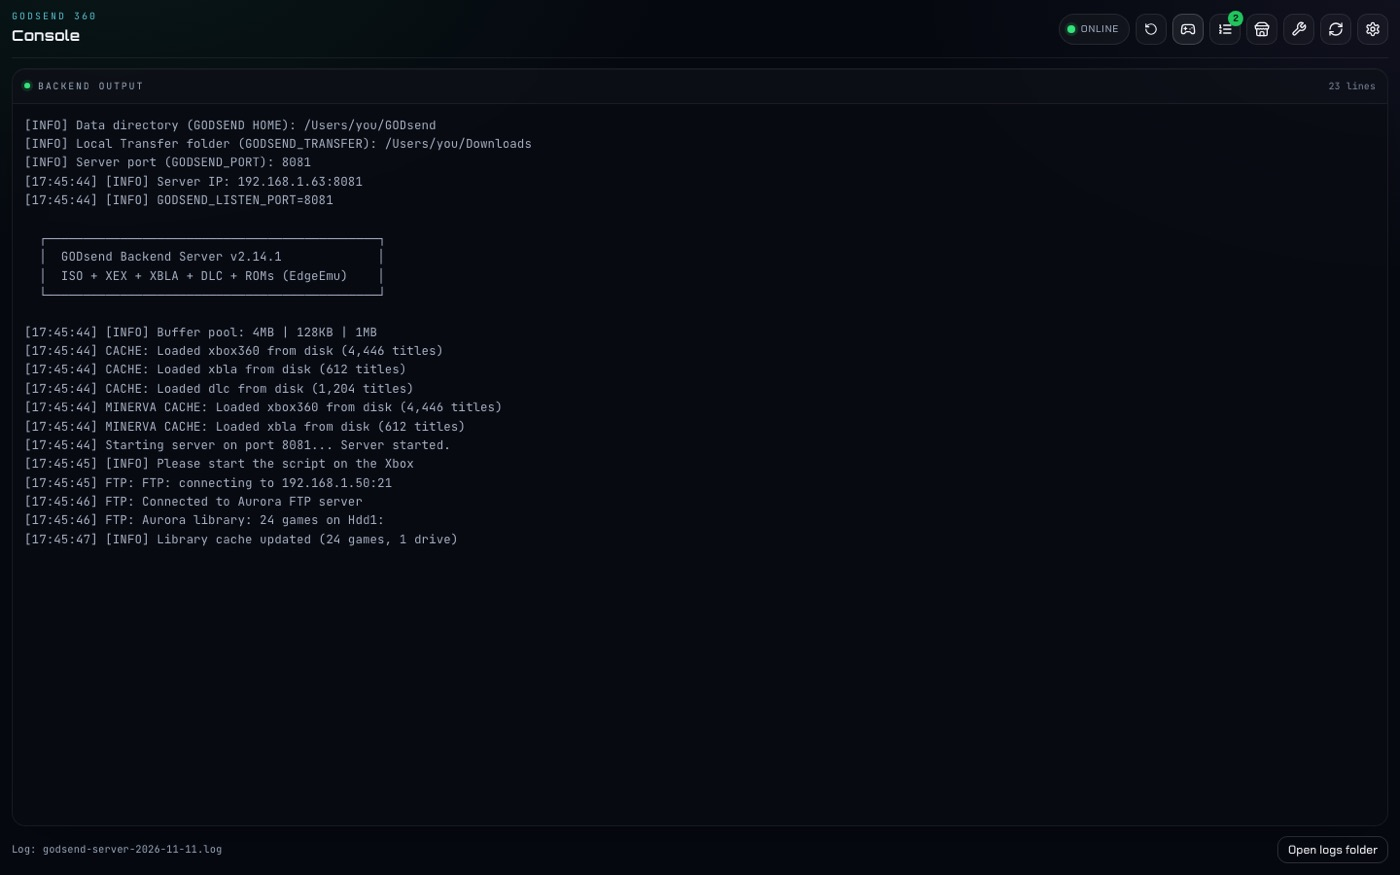
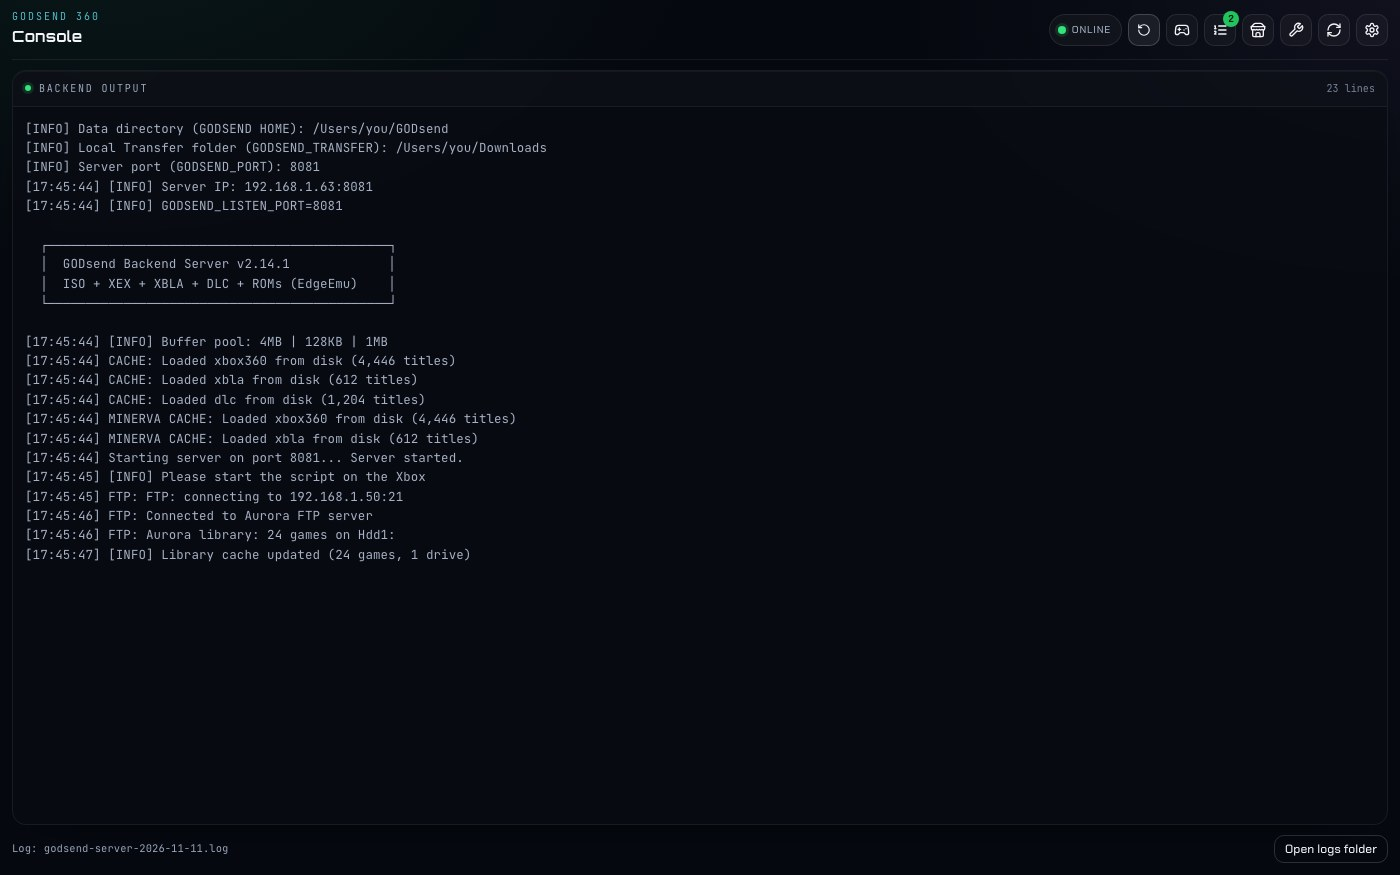
Regenerate the whole site gallery and README preview with real box art

diff --git a/CHANGELOG.md b/CHANGELOG.md
@@ -10,7 +10,7 @@ Versioning follows [Semantic Versioning](https://semver.org/spec/v2.0.0.html).
 ## [Unreleased]
 
 ### Added
-- Video guides: `docs/video-guides.html` lists eleven short recordings (library with flipping box art, game page, browse and download, toolbox, ISO to GOD, ISO to XEX, BadAvatar USB, FTP manager, job queue, console, settings) with a walkthrough and steps each. Videos are on R2; the page is linked from the site nav, the sitemap and the README. Recorded from the renderer's `?mock=1` bridge with the demo-reels skill; the dev-only mock now reads `window.__realCovers` so the recordings and the README screenshots show real box art instead of placeholder tiles. The README preview and `08-xbox-library` screenshots were regenerated, and the README video link now points at the new Xbox Library recording.
+- Video guides: `docs/video-guides.html` lists eleven short recordings (library with flipping box art, game page, browse and download, toolbox, ISO to GOD, ISO to XEX, BadAvatar USB, FTP manager, job queue, console, settings) with a walkthrough and steps each. Videos are on R2; the page is linked from the site nav, the sitemap and the README. Recorded from the renderer's `?mock=1` bridge with the demo-reels skill; the dev-only mock now reads `window.__realCovers` so the recordings and the README screenshots show real box art instead of placeholder tiles. The whole site gallery (`docs/site/screens/01` and `03` to `08`) and the README preview were regenerated at 1400x875 from the same setup (`node ~/Code/demo-reels/shots-360.mjs`), and the README video link now points at the new Xbox Library recording.
 
 ### Fixed
 - `robots.txt` and `sitemap.xml` lived under `/site/`, but Google fetches `/robots.txt` at the site root, so the robots file was dead and nothing linked the sitemap. Both moved to the root and the sitemap link updated.
